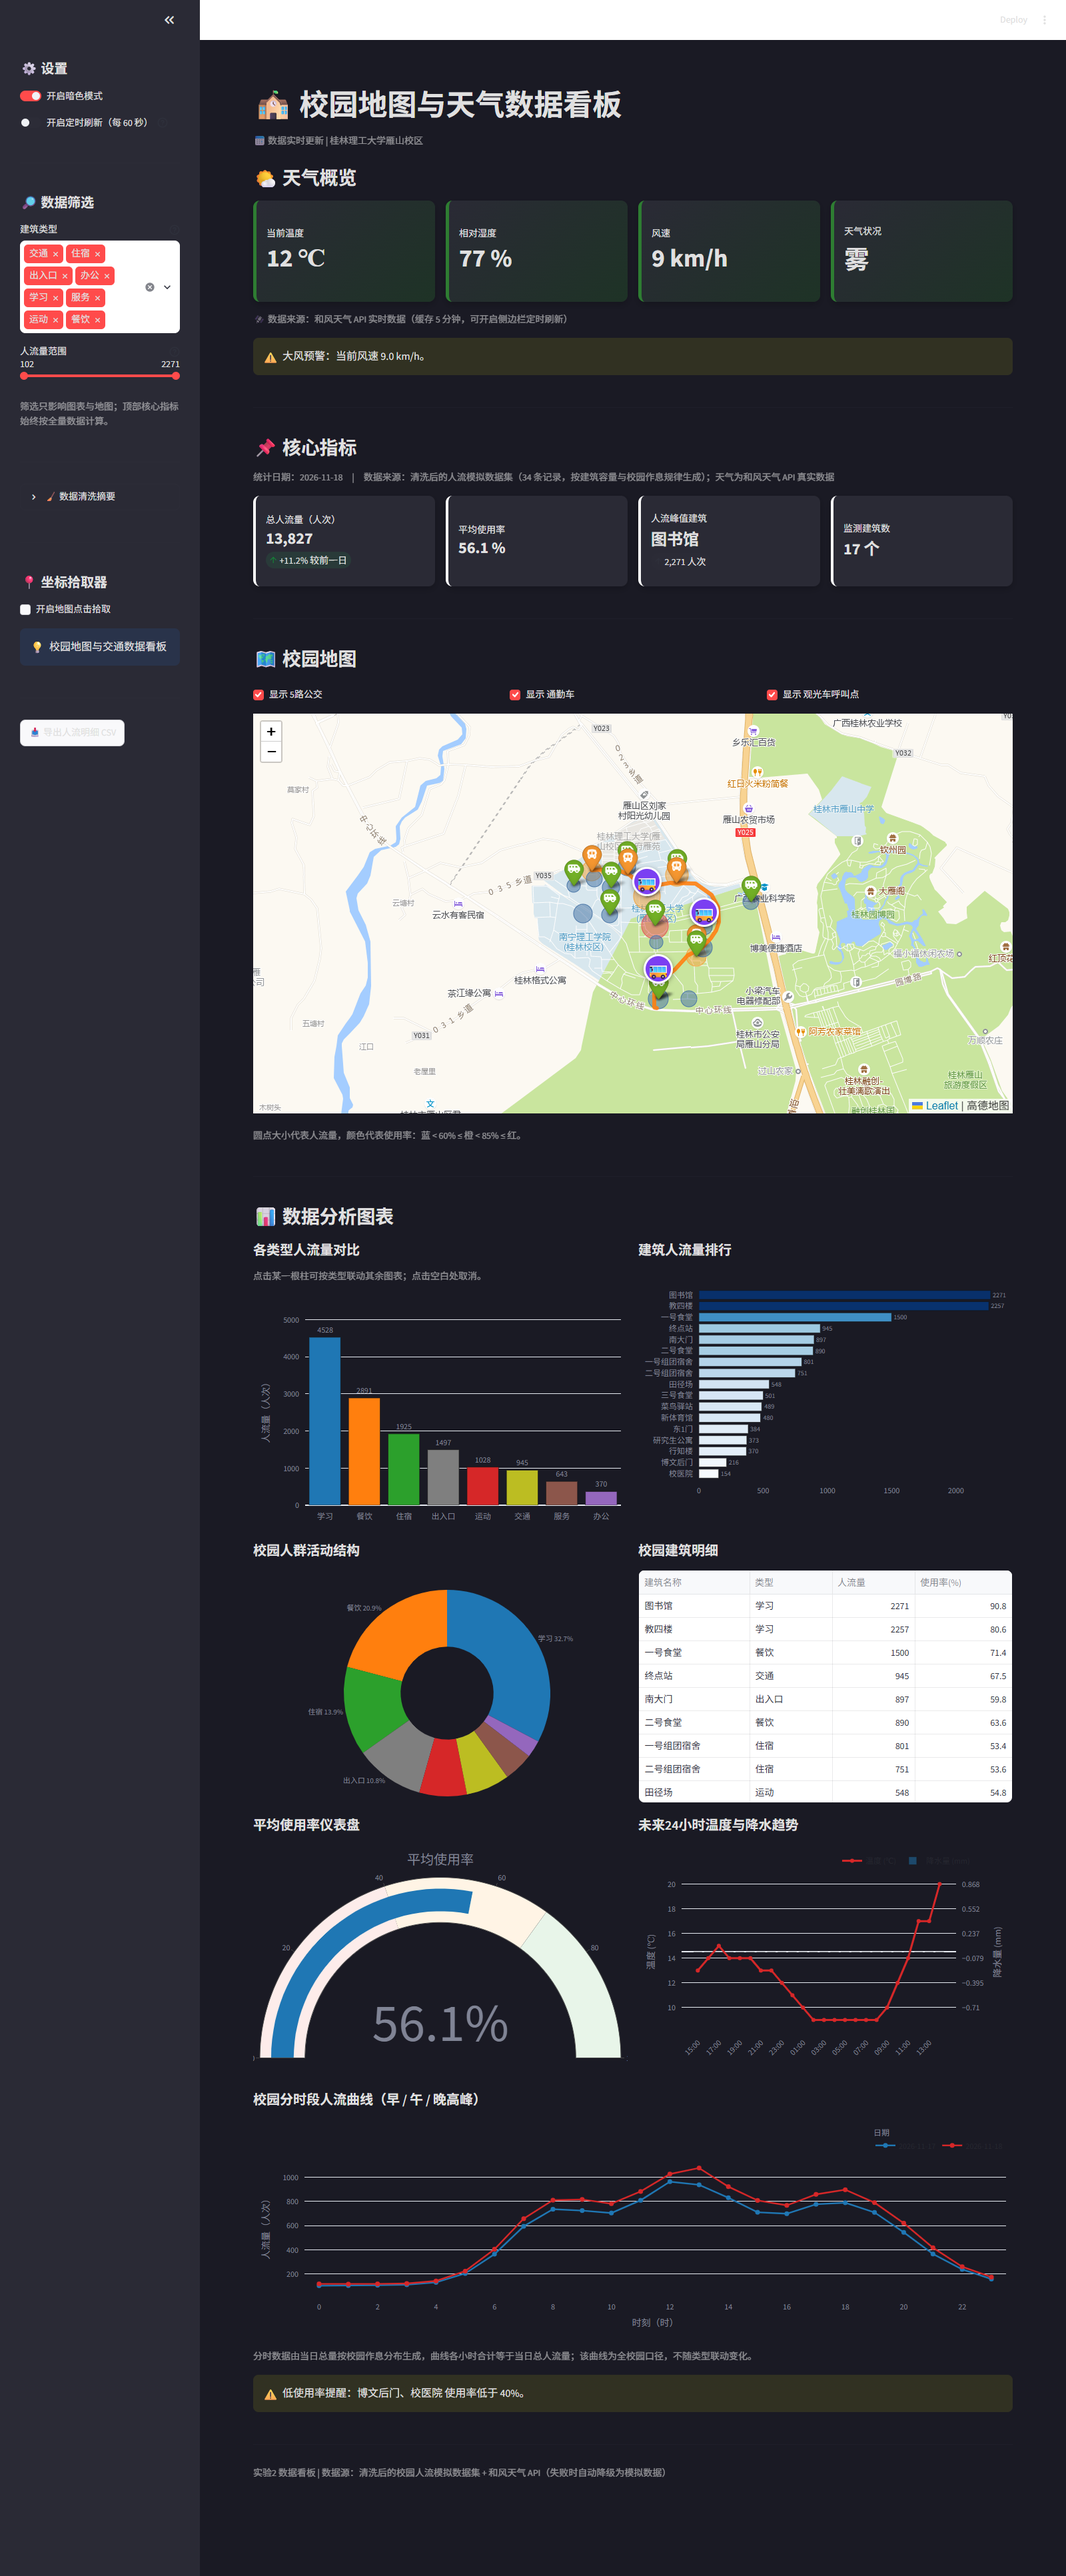
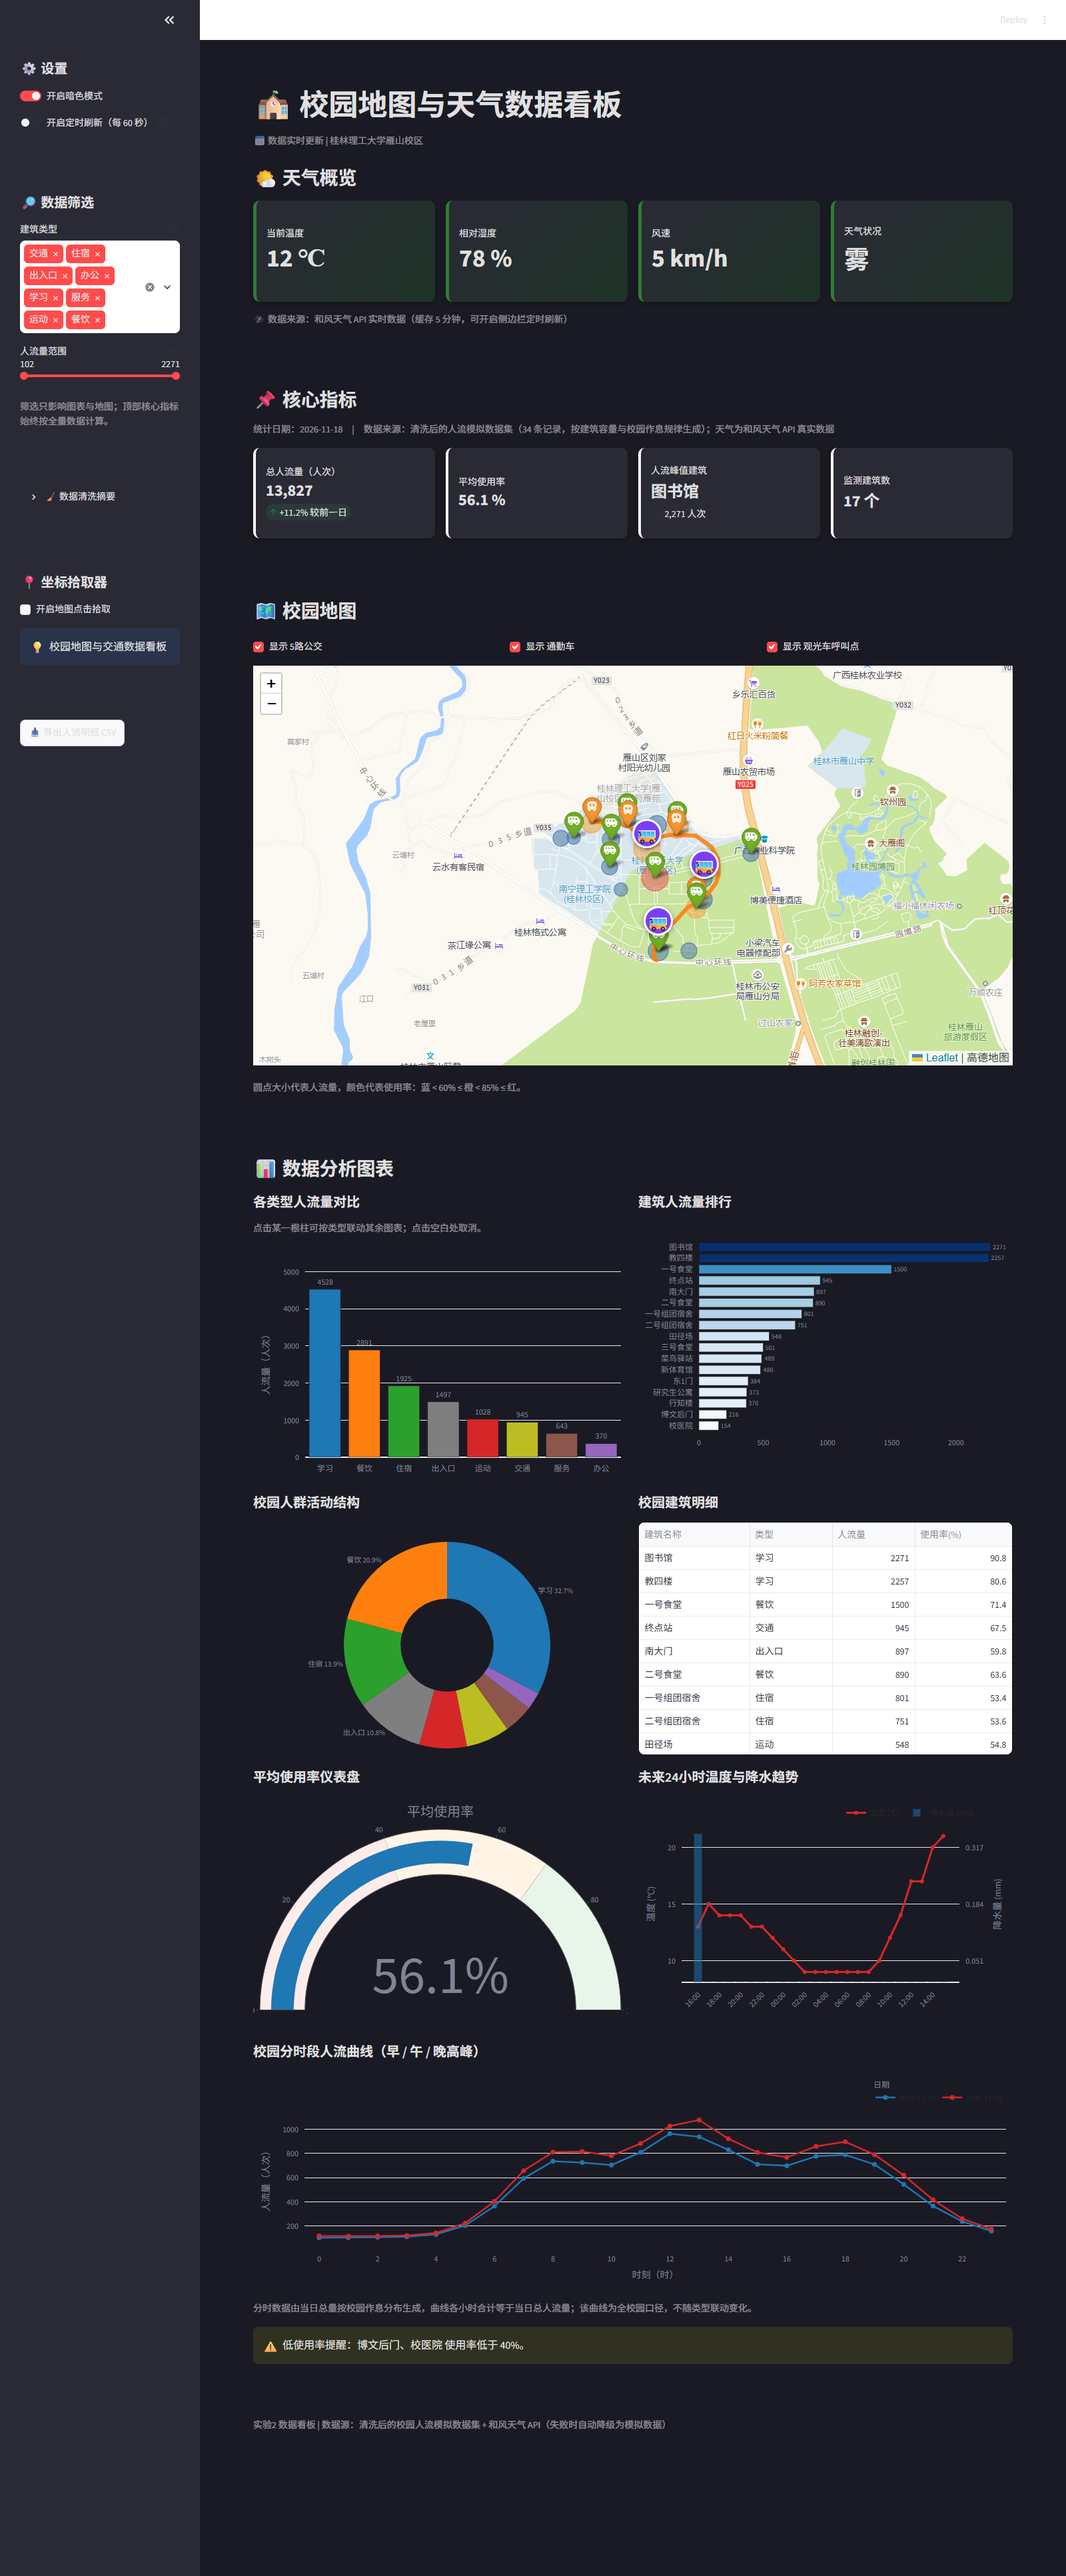
fix: 按实地点位校正三处地图坐标，同步重截整页截图
- 一号组团宿舍：原坐标落在旧体育馆，改为一号食堂西侧组团中心 110.300565, 25.065843
- 研究生公寓：原坐标压在体育馆，改为 30/31/32 栋片区中心、校医院西侧 110.294347, 25.065085
- 博文后门：原坐标落在机械与控制工程学院，改为南北公共教学楼之间路口 110.298225, 25.062092
- 二号组团宿舍经确认无需调整，保持原值
- 重截 docs/images 亮暗整页截图（1600x3740 / 1600x3866），与当前点位一致

diff --git a/data/mock.py b/data/mock.py
@@ -57,11 +57,11 @@ def get_campus_data():
         {"名称": "行知楼", "类型": "办公", "经度": 110.3036, "纬度": 25.0627},
         {"名称": "教四楼", "类型": "学习", "经度": 110.2999, "纬度": 25.0645},
 
-        # 补充图表数据
-        {"名称": "一号组团宿舍", "类型": "住宿", "经度": 110.295800, "纬度": 25.063500},
+        # 补充图表数据（坐标于 2026-11-25 按高德底图复核校正）
+        {"名称": "一号组团宿舍", "类型": "住宿", "经度": 110.300565, "纬度": 25.065843},
         {"名称": "二号组团宿舍", "类型": "住宿", "经度": 110.303500, "纬度": 25.061500},
-        {"名称": "研究生公寓", "类型": "住宿", "经度": 110.296500, "纬度": 25.065500},
-        {"名称": "博文后门", "类型": "出入口", "经度": 110.300500, "纬度": 25.061800}
+        {"名称": "研究生公寓", "类型": "住宿", "经度": 110.294347, "纬度": 25.065085},
+        {"名称": "博文后门", "类型": "出入口", "经度": 110.298225, "纬度": 25.062092}
     ]
     df = pd.DataFrame(data)
     np.random.seed(42)
